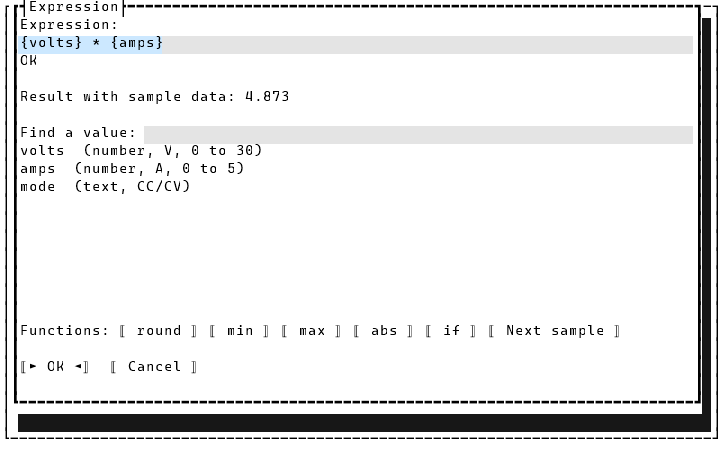
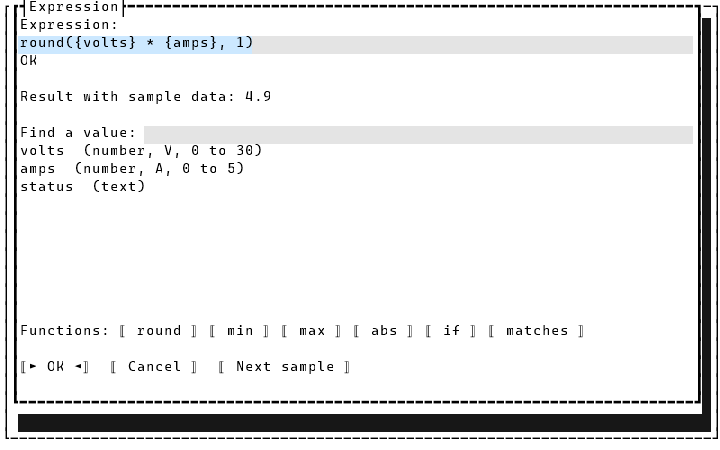
Add the expression builder user guide with generated picker screenshots

diff --git a/tests/DevTerm.Console.Tests/ExpressionPickerScreenshotTests.cs b/tests/DevTerm.Console.Tests/ExpressionPickerScreenshotTests.cs
@@ -1,0 +1,59 @@
+using DevTerm.DeviceManifests;
+using DevTerm.DeviceManifests.Editing;
+using DevTerm.Test.Utilities;
+using Terminal.Gui.App;
+using Terminal.Gui.ViewBase;
+using Terminal.Gui.Views;
+
+namespace DevTerm.Console.Tests;
+
+/// <summary>
+/// Captures the expression picker's states for docs/user-guide/expression-builder.md: a clean build, a syntax error, an
+/// unknown-value warning, a text expression, and Channels mode. Each runs the real dialog (see <see cref="TuiReview.Modal"/>)
+/// at 80x25 in the light theme and copies the capture into <c>docs/user-guide/images/</c>.
+/// </summary>
+[TestCategory(TestCategories.Unit)]
+[TestClass]
+[DoNotParallelize]
+public sealed class ExpressionPickerScreenshotTests
+{
+    private static readonly ValuePath[] _paths =
+    [
+        new("volts", ValuePathType.Number, ValuePathSource.Control, "Voltage", "V", 0, 30),
+        new("amps", ValuePathType.Number, ValuePathSource.Control, "Current", "A", 0, 5),
+        new("status", ValuePathType.Text, ValuePathSource.ResponsePattern, "Status"),
+    ];
+
+    [TestCleanup]
+    public void Cleanup() => TuiReview.ResetTheme();
+
+    [TestMethod]
+    public void Build() => Capture("tui-expression-picker", "round({volts} * {amps}, 1)");
+
+    [TestMethod]
+    public void SyntaxError() => Capture("tui-expression-picker-error", "round({volts} * ");
+
+    [TestMethod]
+    public void UnknownValue() => Capture("tui-expression-picker-warning", "{volts} * {watts}");
+
+    [TestMethod]
+    public void TextExpression() => Capture("tui-expression-picker-text", "matches({status}, 'READY') ? 100 : 0");
+
+    [TestMethod]
+    public void ChannelsMode() => Capture("tui-expression-picker-channels", "volts:Volts:#FF6600; amps", PickerMode.Channels);
+
+    private static void Capture(string imageName, string text, PickerMode mode = PickerMode.Expression)
+    {
+        TuiReview.Modal(
+            "guide-" + imageName,
+            80,
+            25,
+            "light",
+            app => new Window { Title = "dev-term", Width = Dim.Fill(), Height = Dim.Fill() },
+            app => ExpressionPickerDialog.Show(app, new ExpressionPickerViewModel(_paths, text, seed: 7, mode: mode)));
+
+        var source = Path.Combine(TuiReview.Directory, $"guide-{imageName}-80x25-light.png");
+        var images = Path.Combine(TuiReview.Directory, "..", "..", "..", "docs", "user-guide", "images");
+        File.Copy(source, Path.Combine(Path.GetFullPath(images), imageName + ".png"), overwrite: true);
+    }
+}

diff --git a/tests/DevTerm.Wpf.Tests/ExpressionPickerWindowTests.cs b/tests/DevTerm.Wpf.Tests/ExpressionPickerWindowTests.cs
@@ -152,4 +152,43 @@ public sealed class ExpressionPickerWindowTests
             await Task.CompletedTask;
         });
     }
+
+    [TestMethod]
+    public void Screens_AreCapturedForTheUserGuide()
+    {
+        var paths = new[]
+        {
+            new ValuePath("volts", ValuePathType.Number, ValuePathSource.Control, "Voltage", "V", 0, 30),
+            new ValuePath("amps", ValuePathType.Number, ValuePathSource.Control, "Current", "A", 0, 5),
+            new ValuePath("status", ValuePathType.Text, ValuePathSource.ResponsePattern, "Status"),
+        };
+        var cases = new (string Name, string Text, PickerMode Mode)[]
+        {
+            ("wpf-expression-picker-error", "round({volts} * ", PickerMode.Expression),
+            ("wpf-expression-picker-warning", "{volts} * {watts}", PickerMode.Expression),
+            ("wpf-expression-picker-text", "matches({status}, 'READY') ? 100 : 0", PickerMode.Expression),
+            ("wpf-expression-picker-channels", "volts:Volts:#FF6600; amps", PickerMode.Channels),
+        };
+
+        StaTestRunner.Run(async () =>
+        {
+            var directory = new DirectoryInfo(AppContext.BaseDirectory);
+            while (directory is not null && !File.Exists(Path.Combine(directory.FullName, "DevTerm.slnx")))
+            {
+                directory = directory.Parent;
+            }
+
+            foreach (var (name, text, mode) in cases)
+            {
+                var window = new ExpressionPickerWindow(new ExpressionPickerViewModel(paths, text, seed: 7, mode: mode));
+                WpfScreenshot.ShowOffScreen(window, 560, 460);
+                StaTestRunner.DoEvents();
+                window.UpdateLayout();
+                WpfScreenshot.Save(window, Path.Combine(directory!.FullName, "docs", "user-guide", "images", name + ".png"));
+                window.Close();
+            }
+
+            await Task.CompletedTask;
+        });
+    }
 }

diff --git a/docs/user-guide/expression-builder.md b/docs/user-guide/expression-builder.md
@@ -1,0 +1,167 @@
+# Expressions and the expression picker
+
+An **expression** lets a panel field derive its value from other values instead of showing a raw
+decoder value verbatim: millivolts shown as volts, a temperature converted to Fahrenheit, a status
+text turned into a 0/100 gauge, a computed value sent as a command parameter. You write one in the
+[manifest editor](manifest-editor.md); the **expression picker** (a **Pick...** button next to the
+field) helps you build it and checks it as you type.
+
+This page is the full manual. The exact field/action reference is
+[`docs/specs/expression-picker.md`](../specs/expression-picker.md); the design is
+[`docs/design/features/manifest-editor-expression-builder.md`](../design/features/manifest-editor-expression-builder.md)
+and [`expression-picker-paths-and-cel.md`](../design/features/expression-picker-paths-and-cel.md).
+
+## Where an expression goes
+
+| Field | Control | What the expression produces |
+|---|---|---|
+| **Expression** | Indicator | The value the indicator shows. |
+| **Channels** | Bar graph, strip chart | One entry per channel: `id[:label[:#RRGGBB[:expression]]]`, entries separated by `;`. The last part is an expression for that channel. |
+| **Parameter expressions** | Button | One expression per parameter field, separated by `;`, in the same order as the parameter fields. Each is evaluated when the button is pressed and the result is sent. |
+| **Visible when** and the coordinate/hue/saturation/brightness id fields | Various | Not expressions: a single value id. They have a **Pick...** button too, which just picks from the manifest's values. |
+
+A value is referred to as `{id}`, where `id` is a name the manifest publishes: a control's id, a
+response pattern's name or one of its named groups, a binary frame field, or a query reply's id.
+
+## The language
+
+Numbers (`4.2`), text in single or double quotes (`'READY'`), the values `{id}`, and these operators
+and functions:
+
+| You want | Write | Example | Result |
+|---|---|---|---|
+| Arithmetic | `+ - * /` | `{raw_mv} / 1000` | `4.213` |
+| Rounding | `round(x, places)` | `round({voltage} * {current}, 2)` | `1.76` |
+| Unit conversion | arithmetic | `round({temp_c} * 9 / 5 + 32, 1)` | `70.7` |
+| Smallest / largest | `min(a, b)`, `max(a, b)` | `min({voltage}, 5)` | `5` |
+| Absolute value | `abs(x)` | `abs({temp_c} - 25)` | `3.5` |
+| A choice | `if(c, a, b)` or `c ? a : b` | `if({mode} == 2, 1, 0)` | `1` |
+| Comparing | `== != < <= > >=` | `{sats} >= 4 ? 100 : 0` | `100` |
+| And / or / not | `&& \|\| !` | `{sats} >= 4 && {mode} == 2` | `1` |
+| Text matches a pattern | `matches(text, 'regex')` | `matches({status}, 'READY')` | `1` |
+| Text contains / starts / ends | `contains`, `startsWith`, `endsWith` | `contains({status}, 'OK')` | `1` |
+| Length of text or a list | `size(x)` | `size({status})` | `8` |
+| Text to a number | `number(text)` | `number({reading})` | `12.5` |
+| Anything to text | `string(x)` | `string({sats})` | `7` |
+| Does the value exist yet? | `has({id})` | `has({voltage})` | `1` |
+| Split text into a list | `split(text, sep)` | `split({frame}, ',')[1]` | `14` |
+| Join a list into text | `join(list, sep)` | `join(split({frame}, ','), '-')` | `3-14-15-9` |
+| A list, indexing, membership | `[1,2,3]`, `x[i]`, `a in list` | `{mode} in [1, 2]` | `1` |
+
+(The results above come from a session where `raw_mv=4213`, `voltage=5.02`, `current=0.35`,
+`temp_c=21.5`, `mode=2`, `sats=7`, `reading="12.5 V"`, `frame="3,14,15,9"`, `status="OK READY"`.)
+A comparison or `matches` gives `1` or `0`, so it can drive a gauge directly. Text that begins with a
+number is read as that number in arithmetic: `{reading} * 2` is `25`.
+
+### What happens with bad input
+
+Evaluating an expression never fails at run time, so a panel never breaks over a bad reading:
+
+- A value that hasn't arrived yet counts as `0`: `{missing} + 1` is `1`. Use `has({id})` to tell
+  "absent" from "zero".
+- Dividing by zero gives `Infinity`: `{raw_mv} / 0`.
+
+A *malformed* expression is different: it can't be saved as meaningful, and the picker says why (below).
+
+## The picker, step by step
+
+Open it with **Pick...** next to an Expression, Channels or Parameter expressions field (or any field
+that names a value). It opens on whatever is already in the field.
+
+![WPF expression picker](images/wpf-expression-picker.png)
+
+1. **Expression** is the text you are editing. Type directly, or use the buttons below to insert.
+2. The line under it is the **diagnostic**: `OK`, `OK, with warnings: ...`, or `Error: ...`.
+3. **Find a value** filters the list of values the manifest publishes; each row shows the id and,
+   where known, its type, unit and range (`volts  (number, V, 0 to 30)`). Choose one to insert
+   `{id}` at the caret.
+4. **Functions** inserts a function with the caret in the first argument. The buttons offered are
+   `round`, `min`, `max`, `abs`, `if` and `matches` (which leaves the caret on the text argument); every other function in the table above can
+   be typed by hand and is checked just the same.
+5. **Result with sample data** (WPF: **Sample result**) evaluates your expression against made-up
+   values that respect each value's type and range. **Next sample** draws another set, so you can see
+   the expression over several inputs. The samples are repeatable, not random from run to run.
+6. **OK** puts the expression back in the field; **Cancel** leaves it alone.
+
+![TUI expression picker](images/tui-expression-picker.png)
+
+The TUI picker is the same dialog. **Next sample** sits on the OK/Cancel row.
+
+### Text expressions
+
+An expression may produce text. The picker shows a text result in quotes, and the same
+syntax works: `matches({status}, 'READY') ? 100 : 0` turns a status line into a number.
+
+![WPF picker with a text expression](images/wpf-expression-picker-text.png)
+
+![TUI picker with a text expression](images/tui-expression-picker-text.png)
+
+Here `status` is a text value, so the list shows `status  (text)` with no unit or range. A text
+value's sample is placeholder text (`sample-xxxx-N`), so this expression shows `0` until you give it real
+data with a recording (below).
+
+### Errors
+
+An expression that doesn't parse shows `Error: ...` in the error color and its result is `-`. The common ones:
+
+| You typed | The picker says |
+|---|---|
+| `round({a}` | `expected ')', found ''.` |
+| `{a} +` | `expected a number, string, '{variable}', a name, '[', '(' or a function, found ''.` |
+| `round()` | `'round' was given 0 argument(s), which isn't valid for it.` |
+
+![WPF picker showing a syntax error](images/wpf-expression-picker-error.png)
+
+![TUI picker showing a syntax error](images/tui-expression-picker-error.png)
+
+Fix the text and the diagnostic updates on every keystroke.
+
+### Warnings
+
+A warning means the expression is valid but probably not what you meant. The usual one is a value
+nothing in the manifest publishes: `{volts} * {watts}` gives
+`OK, with warnings: 'watts' is not published by anything in this manifest.` A warning never blocks
+**OK** (the value may come from something the manifest doesn't describe), and until it arrives `watts`
+counts as `0`.
+
+![WPF picker showing a warning](images/wpf-expression-picker-warning.png)
+
+![TUI picker showing a warning](images/tui-expression-picker-warning.png)
+
+## Channels (bar graph and strip chart)
+
+For **Channels** the field holds a list, not a single expression: one entry per channel, `;`-separated,
+each `id[:label[:#RRGGBB[:expression]]]`. `volts:Volts:#FF6600; amps` draws `volts` in orange labelled
+"Volts" and `amps` with the defaults. Choosing a value in the picker **appends a channel** for it. Add a
+fourth part to chart something derived: `power:Watts:#3366CC:{volts} * {amps}`. This mode has no
+function buttons, sample result or **Next sample**; its diagnostics check each channel's id against the
+manifest (a warning for an unknown id) and report a channel expression that doesn't parse as an error.
+
+![WPF picker in Channels mode](images/wpf-expression-picker-channels.png)
+
+![TUI picker in Channels mode](images/tui-expression-picker-channels.png)
+
+## Parameter expressions (buttons)
+
+A button with parameter fields (a setpoint to type in, say) can send a computed value instead. In
+**Parameter expressions**, write one expression per parameter field, `;`-separated, in field order:
+`round({volts} * 100, 0); {amps}`. The picker keeps the function buttons here; choosing a value inserts `{id}` at the caret, blank
+entries are allowed, and a bad one is reported as `Item N: ...`.
+
+## Sample data from a real recording
+
+By default the samples are generated from each value's type, range and choices. To check an expression
+against what your device really sends, press **Use recording...** (WPF) or **Log** (TUI) in the manifest
+editor and pick a session log. The pickers then draw their samples from that log's received replies, and
+**Next sample** steps through them.
+
+## TUI and WPF
+
+Both front ends use the same engine, so an expression behaves identically in each; only the chrome
+differs. WPF shows **Sample result** at the bottom left with **Next sample** beside OK/Cancel; the TUI shows
+"Result with sample data" under the diagnostic and puts **Next sample** on the button row.
+
+## See also
+
+- [Editing a device manifest](manifest-editor.md): where the fields live.
+- [`docs/specs/expression-picker.md`](../specs/expression-picker.md): every field, action and state.

diff --git a/docs/changes/2026-10-02.md b/docs/changes/2026-10-02.md
@@ -331,3 +331,5 @@ Expression picker proposal closed out: open questions resolved, stale decision t
 Manifest expression builder proposal closed out: stale "extension in progress" status replaced with what landed, moved to `docs/design/features/`; broken relative links in it and in `docs/specs/` fixed; references updated (comment-only code changes).
 
 `.ksy` importer proposal closed out and moved to `docs/design/features/`, with bit fields, variable-length frames and checksums left in `BACKLOG.md` by choice; references updated (comment-only code changes).
+
+Expression builder manual: new `docs/user-guide/expression-builder.md` covering the language (examples verified against the evaluator), where expressions go, the picker, text/channels/parameter modes, diagnostics and recordings. New screenshot tests capture the picker's error, warning, text and channels states in both front ends (`ExpressionPickerScreenshotTests`, `ExpressionPickerWindowTests.Screens_AreCapturedForTheUserGuide`), regenerating `tui-expression-picker.png`. Linked from the user-guide README, the manifest-editor guide and the picker spec.

diff --git a/docs/specs/expression-picker.md b/docs/specs/expression-picker.md
@@ -8,7 +8,7 @@ Opened from the **Pick...** button beside an indicator's **Expression** field, o
 **Channels** field, in the [Manifest Editor](manifest-editor.md), and (2026-10-02) beside every other field that names a value: a
 button's Parameter expressions, vector/color value ids and visible-when. Shared logic is `DevTerm.DeviceManifests.Editing.ExpressionPickerViewModel`, fed by
 `ValuePathCatalog.Enumerate(manifest)` and `SampleDataGenerator`; rendered as `ExpressionPickerDialog` (TUI) and
-`ExpressionPickerWindow` (WPF). Design: [proposal](../design/features/expression-picker-paths-and-cel.md).
+`ExpressionPickerWindow` (WPF). Design: [proposal](../design/features/expression-picker-paths-and-cel.md). Walkthrough: [user guide](../user-guide/expression-builder.md).
 
 ## Fields
 

diff --git a/docs/user-guide/manifest-editor.md b/docs/user-guide/manifest-editor.md
@@ -40,7 +40,7 @@ diagnostics and the result against sample data update as you type. **OK** puts t
 Every field that names a value has a **Pick...** button too: a bar graph or strip chart's **Channels** (choosing a value
 adds a channel), a button's **Parameter expressions**, a vector's coordinate ids, a color control's hue/saturation/brightness ids
 and **Visible when**.
-See [`docs/specs/expression-picker.md`](../specs/expression-picker.md).
+The full manual, with the whole expression language and every picker mode, is [Expressions and the expression picker](expression-builder.md). Reference: [`docs/specs/expression-picker.md`](../specs/expression-picker.md).
 
 ![WPF expression picker](images/wpf-expression-picker.png)
 

diff --git a/docs/user-guide/README.md b/docs/user-guide/README.md
@@ -44,6 +44,8 @@ test class's own doc comment.
 - [Editing a device manifest](manifest-editor.md) — **Device > Edit Device Manifest...**: build or
   change a device manifest's commands, reply patterns and control panel in forms, with a live preview
   of the panel, in TUI/WPF.
+- [Expressions and the expression picker](expression-builder.md) — the expression language (indicator,
+  chart channels, button parameters) and the **Pick...** dialog that builds and checks one, in TUI/WPF.
 - [Capturing screen dumps, plots and print jobs](stream-monitor.md) — **Device > Stream
   Monitor...**: auto-saving images, HP-GL, PostScript and PCL a device sends, with a live image
   preview in WPF.
